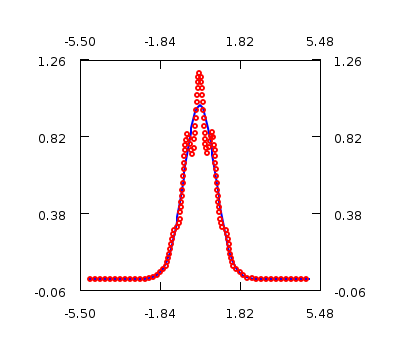
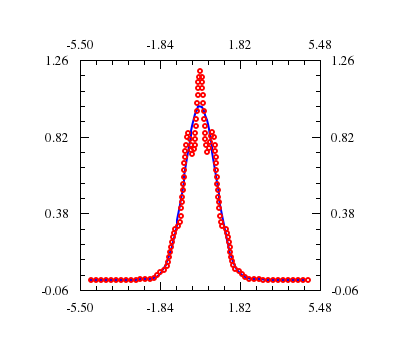
Added small axis ticks

diff --git a/qsl_rectframe.cpp b/qsl_rectframe.cpp
@@ -94,8 +94,12 @@ void QslRectFrame::Private::setupPaint(QslRectScale *scale)
 {
     horNumDiv = scale->widthPix() / 80;
     horDivSiz = (scale->xMax() - scale->xMin()) / horNumDiv;
+    horNumDiv *= 5;
+    horDivSiz /= 5.0;
     verNumDiv = scale->heightPix() / 60;
     verDivSiz = (scale->yMax() - scale->yMin()) / verNumDiv;
+    verNumDiv *= 5;
+    verDivSiz /= 5.0;
 }
 
 
@@ -120,15 +124,25 @@ void QslRectFrame::Private::
     }
 
     for (int k=0; k<=horNumDiv; k++) {
-        QString numberLabel = QString::number(coord,'f',2);
-        txtWid = fm->width(numberLabel);
-        if (visibComp & BottomAxis) {
-            painter->drawLine(x, yb, x, yb-8);
-            painter->drawText(x-txtWid/2, yb+2*txtHei, numberLabel);
+        if (k%5 == 0) {
+            QString numberLabel = QString::number(coord,'f',2);
+            txtWid = fm->width(numberLabel);
+            if (visibComp & BottomAxis) {
+                painter->drawLine(x, yb, x, yb-8);
+                painter->drawText(x-txtWid/2, yb+2*txtHei, numberLabel);
+            }
+            if (visibComp & TopAxis) {
+                painter->drawLine(x, yt, x, yt+8);
+                painter->drawText(x-txtWid/2, yt-txtHei, numberLabel);
+            }
         }
-        if (visibComp & TopAxis) {
-            painter->drawLine(x, yt, x, yt+8);
-            painter->drawText(x-txtWid/2, yt-txtHei, numberLabel);
+        else {
+            if (visibComp & BottomAxis) {
+                painter->drawLine(x, yb, x, yb-4);
+            }
+            if (visibComp & TopAxis) {
+                painter->drawLine(x, yt, x, yt+4);
+            }
         }
         coord += horDivSiz;
         x = scale->mapX(coord);
@@ -157,17 +171,29 @@ void QslRectFrame::Private::
     }
 
     for (int k=0; k<=verNumDiv; k++) {
-        QString numberLabel = QString::number(coord,'f',2);
-        txtWid = fm->width(numberLabel);
-        if (visibComp & LeftAxis) {
-            painter->drawLine(xl, y, xl+8, y);
-            painter->drawText(xl-txtWid-txtHei, y+txtHei/2, numberLabel);
+        if (k%5 == 0) {
+            QString numberLabel = QString::number(coord,'f',2);
+            txtWid = fm->width(numberLabel);
+            if (visibComp & LeftAxis) {
+                painter->drawLine(xl, y, xl+8, y);
+                painter->drawText(xl-txtWid-txtHei, y+txtHei/2, numberLabel);
+            }
+            if (visibComp & RightAxis) {
+                painter->drawLine(xr, y, xr-8, y);
+                painter->drawText(xr+txtHei, y+txtHei/2, numberLabel);
+            }
         }
-        if (visibComp & RightAxis) {
-            painter->drawLine(xr, y, xr-8, y);
-            painter->drawText(xr+txtHei, y+txtHei/2, numberLabel);
+        else {
+            if (visibComp & LeftAxis) {
+                painter->drawLine(xl, y, xl+4, y);
+            }
+            if (visibComp & RightAxis) {
+                painter->drawLine(xr, y, xr-4, y);
+            }
         }
         coord += verDivSiz;
         y = scale->mapY(coord);
     }
 }
+
+// qsl_rectframe.cpp
